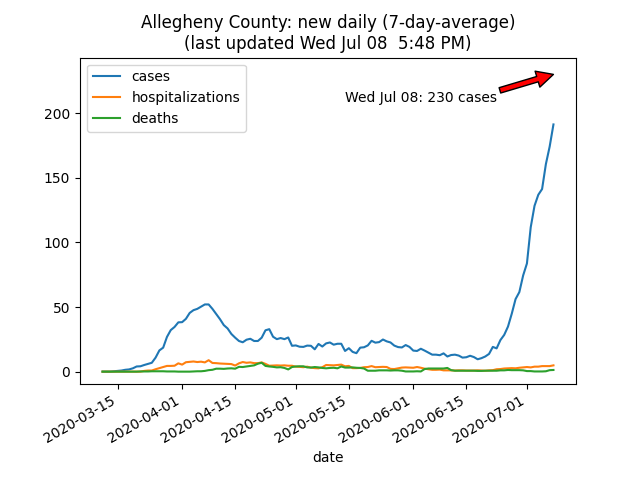
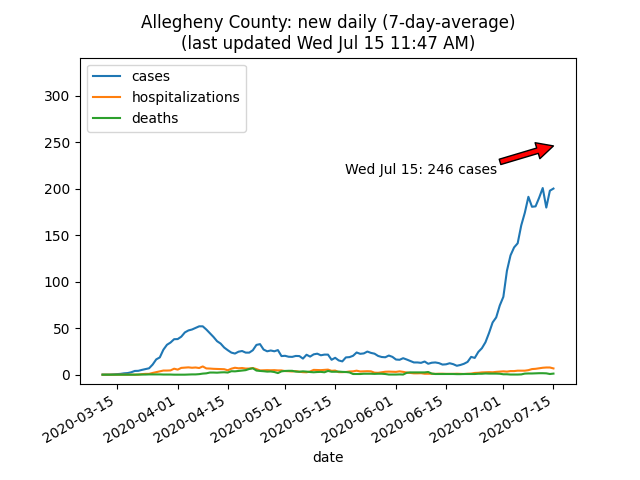
Update Web site.

diff --git a/index.html b/index.html
@@ -12,7 +12,7 @@
     </header>
 
     <aside>
-      Last updated: Wed Jul 08,  5:48 PM
+      Last updated: Wed Jul 15, 11:47 AM
     </aside>
 
     <section>
@@ -21,106 +21,34 @@
         <li>
           <details open="true">
             <summary>
-              Thu Jul 02: Allegheny County order: one-week closure of bars, restaurants, casinos
+              Wed Jul 08: Allegheny County two-week order on indoor dining etc.
             </summary>
-            <p>You can read the full <a href="https://www.alleghenycounty.us/uploadedFiles/Allegheny_Home/Health_Department/Resources/COVID-19/Docs/ACHD%20COVID-19%20Control%20Measure%20Order%207-2-2020.pdf">official order</a>.
-            <p>
-              Health Department Director Dr. Debra Bogen today
-              announced that additional mitigation measures are being
-              taken in Allegheny County to further stem the spread of
-              coronavirus cases in the county. The new order calls for
-              a one-week closure of bars, restaurants and casinos and
-              the cancellation of all activities or events over 25
-              people for that same one-week time period. Food
-              establishments may still offer take-out and delivery
-              during that time period. The order takes effect
-              at <time datetime="2020-07-03 00:01">12:01 a.m. on
-              Friday, July 3, 2020</time>.
-            <p>
-              In addition to the order, Dr. Bogen also recommended a
-              voluntary stay-at-home protocol for residents of the
-              county. While not part of the order, limiting travel to
-              necessities and other mitigation measures is intended to
-              further reduce the spread of COVID-19 in our county.
-          </details>
-        <li>
-          <details open="true">
-            <summary>
-              Wed Jul 01: <a href="https://www.governor.pa.gov/newsroom/gov-wolf-sec-of-health-signs-expanded-mask-wearing-order/">Pennsylvania order: masks are now required in <em>all public places</em></a> (with <a href="#exceptions">exceptions listed below</a>)
-            </summary>
-            <p>You can read the
-              full <a href="https://www.governor.pa.gov/wp-content/uploads/2020/07/20200701-SOH-Universal-Face-Coverings-Order.pdf">official
-              order</a>. An excerpt:
-            <ul>
-              <li>
-                <details>
-                  <summary>Individuals are required to wear face
-                  coverings if they are... (click for
-                  details)</summary>
+            <p>The order takes effect at <time datetime="2020-7-10
+                                                          00:01">12:01
+                                                          a.m. on
+                                                          Friday, July
+                                                          10,
+                                                          2020</time>.
+            <p>Summary (read the full <a href="https://www.alleghenycounty.us/uploadedFiles/Allegheny_Home/Health_Department/Resources/COVID-19/Docs/ACHD%20COVID-19%20Control%20Measure%20Order%207-8-2020.pdf">official
+                order</a> for details):
+              <ul>
+                <li>Indoor dining or alcohol consumption at bars,
+                  restaurants, or any other business establishments in
+                  Allegheny County is prohibited.
+                <li>Bars, restaurants or any other business
+                establishment with food service located in Allegheny
+                County are permitted to provide take-out and delivery
+                sales, of food and alcohol, as well as dine-in service
+                in outdoor seating areas so long as they strictly
+                adhere to the requirements of the state.
+                <li>Events and gatherings of more than 25 persons indoors and more than 50 persons outdoors in Allegheny County are prohibited.
                   <ul>
-                    <li>outdoors and unable to consistently maintain a
-                      distance of six feet or more from other people who
-                      aren’t members of their household;
-
-                    <li>in any indoor location where members of the public
-                      are are generally permitted;
-
-                    <li>waiting for, riding on, driving, or operating
-                      public transportation or paratransit or while in a
-                      taxi, private car service, or ride-sharing vehicle;
-
-                    <li>obtaining services from the healthcare sector in
-                      settings including, but not limited to, a hospital,
-                      pharmacy, medical clinic, laboratory, physician or
-                      dental office, veterinary clinic, or blood bank;
-
-                    <li>engaged in work, whether at a workplace or
-                      performing work off-site, interacting in-person with
-                      any member of the public, working in any space visited
-                      by members of the public, working in any space where
-                      food is prepared or packaged for sale or distribution
-                      to others, working in or walking through common areas,
-                      or in any room or enclosed area where other people,
-                      except for members of the person's own household or
-                      residence, are present when unable to physically
-                      distance.
+                    <li>   This requirement does not apply to religious gatherings held by churches, synagogues, temples, mosques, or other places of worship. Religious institutions remain subject to any requirements set forth by the Pennsylvania Department of Health.
                   </ul>
-                </details>
-              <li>
-                <details>
-                  <summary id="exceptions">Exceptions to face covering requirement (click for details)</summary>
-
-                  <ul>
-                    <li>The following are exceptions to the face covering requirement:
-                      <ul>
-                        <li>Individuals who cannot wear a mask due to a medical condition, including those with respiratory issues that impede breathing, mental health condition, or disability;
-                        <li>Individuals for whom wearing a mask while working would create an unsafe condition in which to operate equipment or execute a task as determined by local, state or federal regulators or workplace safety guidelines;
-                        <li>Individuals who would be unable to remove a mask without assistance;
-                        <li>Individuals who are under two years of age;
-                        <li>Individuals who are communicating or seeking to communicate with someone who is hearing-impaired or has another disability, where the ability to see the mouth is essential for communication;
-                      </ul>
-
-                    <li>Individuals are not required to show documentation that an exception applies.
-                  </ul>
-                </details>
-            </ul>
-          </details>
-        <li>
-          <details open="true">
-            <summary>Sun Jun 28: Allegheny County order: cease on-site consumption of alcohol</summary>
-              <p>On <time datetime="2020-06-28">Sunday, June 28, 2020</time>,
-              Health Department Director Dr. Debra Bogen announced that bars
-              and restaurants are being ordered to cease on-site consumption
-              of alcohol to help prevent the spread of COVID-19. The order
-              is effective immediately although it will not be enforced
-              until after <time datetime="2020-06-30 17:00">5 PM on Tuesday,
-                June 30, 2020</time>. Read
-              the <a href="https://www.alleghenycounty.us/uploadedFiles/Allegheny_Home/Health_Department/Resources/COVID-19/Docs/Order%20of%20the%20ACHD%20Director_06-28-20.pdf">full
-                order here</a>.
+              </ul>
             <p>
               Complaints regarding establishments which are violating the
-              Health Department order may be sent to the department after 5
-              PM on July 30 through
+              Health Department order may be sent to the department through
               <ul>
                 <li>a
                   <a href="https://www.alleghenycounty.us/WorkArea/linkit.aspx?LinkIdentifier=id&amp;ItemID=6442461967">webform</a>,
@@ -134,6 +62,68 @@
                 <p>
                   You may wish to <a href="https://www.alleghenycounty.us/alerts">sign up for daily updates from Allegheny Alerts</a> for more details.
               </aside>
+          </details>
+        <li>
+          <details open="true">
+            <summary>
+              Wed Jul 01: <a href="https://www.governor.pa.gov/newsroom/gov-wolf-sec-of-health-signs-expanded-mask-wearing-order/">Pennsylvania order: masks are now required in <em>all public places</em></a> (with <a href="#exceptions">exceptions listed below</a>)
+            </summary>
+            <p>You can read the
+              full <a href="https://www.governor.pa.gov/wp-content/uploads/2020/07/20200701-SOH-Universal-Face-Coverings-Order.pdf">official
+                order</a>. An excerpt:
+              <ul>
+                <li>
+                  <details>
+                    <summary>Individuals are required to wear face
+                      coverings if they are... (click for
+                      details)</summary>
+                    <ul>
+                      <li>outdoors and unable to consistently maintain a
+                        distance of six feet or more from other people who
+                        aren’t members of their household;
+
+                      <li>in any indoor location where members of the public
+                        are are generally permitted;
+
+                      <li>waiting for, riding on, driving, or operating
+                        public transportation or paratransit or while in a
+                        taxi, private car service, or ride-sharing vehicle;
+
+                      <li>obtaining services from the healthcare sector in
+                        settings including, but not limited to, a hospital,
+                        pharmacy, medical clinic, laboratory, physician or
+                        dental office, veterinary clinic, or blood bank;
+
+                      <li>engaged in work, whether at a workplace or
+                        performing work off-site, interacting in-person with
+                        any member of the public, working in any space visited
+                        by members of the public, working in any space where
+                        food is prepared or packaged for sale or distribution
+                        to others, working in or walking through common areas,
+                        or in any room or enclosed area where other people,
+                        except for members of the person's own household or
+                        residence, are present when unable to physically
+                        distance.
+                    </ul>
+                  </details>
+                <li>
+                  <details>
+                    <summary id="exceptions">Exceptions to face covering requirement (click for details)</summary>
+
+                    <ul>
+                      <li>The following are exceptions to the face covering requirement:
+                        <ul>
+                          <li>Individuals who cannot wear a mask due to a medical condition, including those with respiratory issues that impede breathing, mental health condition, or disability;
+                          <li>Individuals for whom wearing a mask while working would create an unsafe condition in which to operate equipment or execute a task as determined by local, state or federal regulators or workplace safety guidelines;
+                          <li>Individuals who would be unable to remove a mask without assistance;
+                          <li>Individuals who are under two years of age;
+                          <li>Individuals who are communicating or seeking to communicate with someone who is hearing-impaired or has another disability, where the ability to see the mouth is essential for communication;
+                        </ul>
+
+                      <li>Individuals are not required to show documentation that an exception applies.
+                    </ul>
+                  </details>
+              </ul>
           </details>
       </ul>
       <details>
@@ -180,13 +170,20 @@
       <p>
         You may wish to use the <a href="https://www.health.pa.gov/topics/disease/coronavirus/Pages/Monitoring-Dashboard.aspx">PA COVID-19 Early Warning Monitoring System Dashboard</a> Web app to see more data.
       </p>
-      <figure>
+      <nav>
+        <ul>
+          <li><a href="#dailyaveraged">Daily cases, hospitalizations, deaths</a>
+          <li><a href="#dailyaveraged-hospitalizations-deaths">Daily hospitalizations, deaths only</a>
+          <li><a href="#total">Total cases, hospitalizations, deaths</a>
+        </ul>
+      </nav>
+      <figure id="dailyaveraged">
         <img src="dailyaveraged.png" alt="Allegheny County: new daily (7-day-average)"/>
       </figure>
-      <figure>
+      <figure id="dailyaveraged-hospitalizations-deaths">
         <img src="dailyaveraged-hospitalizations-deaths.png" alt="Allegheny County: new hospitalizations &amp; deaths (7-day-average)"/>
       </figure>
-      <figure>
+      <figure id="total">
         <img src="total.png" alt="Allegheny County: total"/>
       </figure>
     </section>
